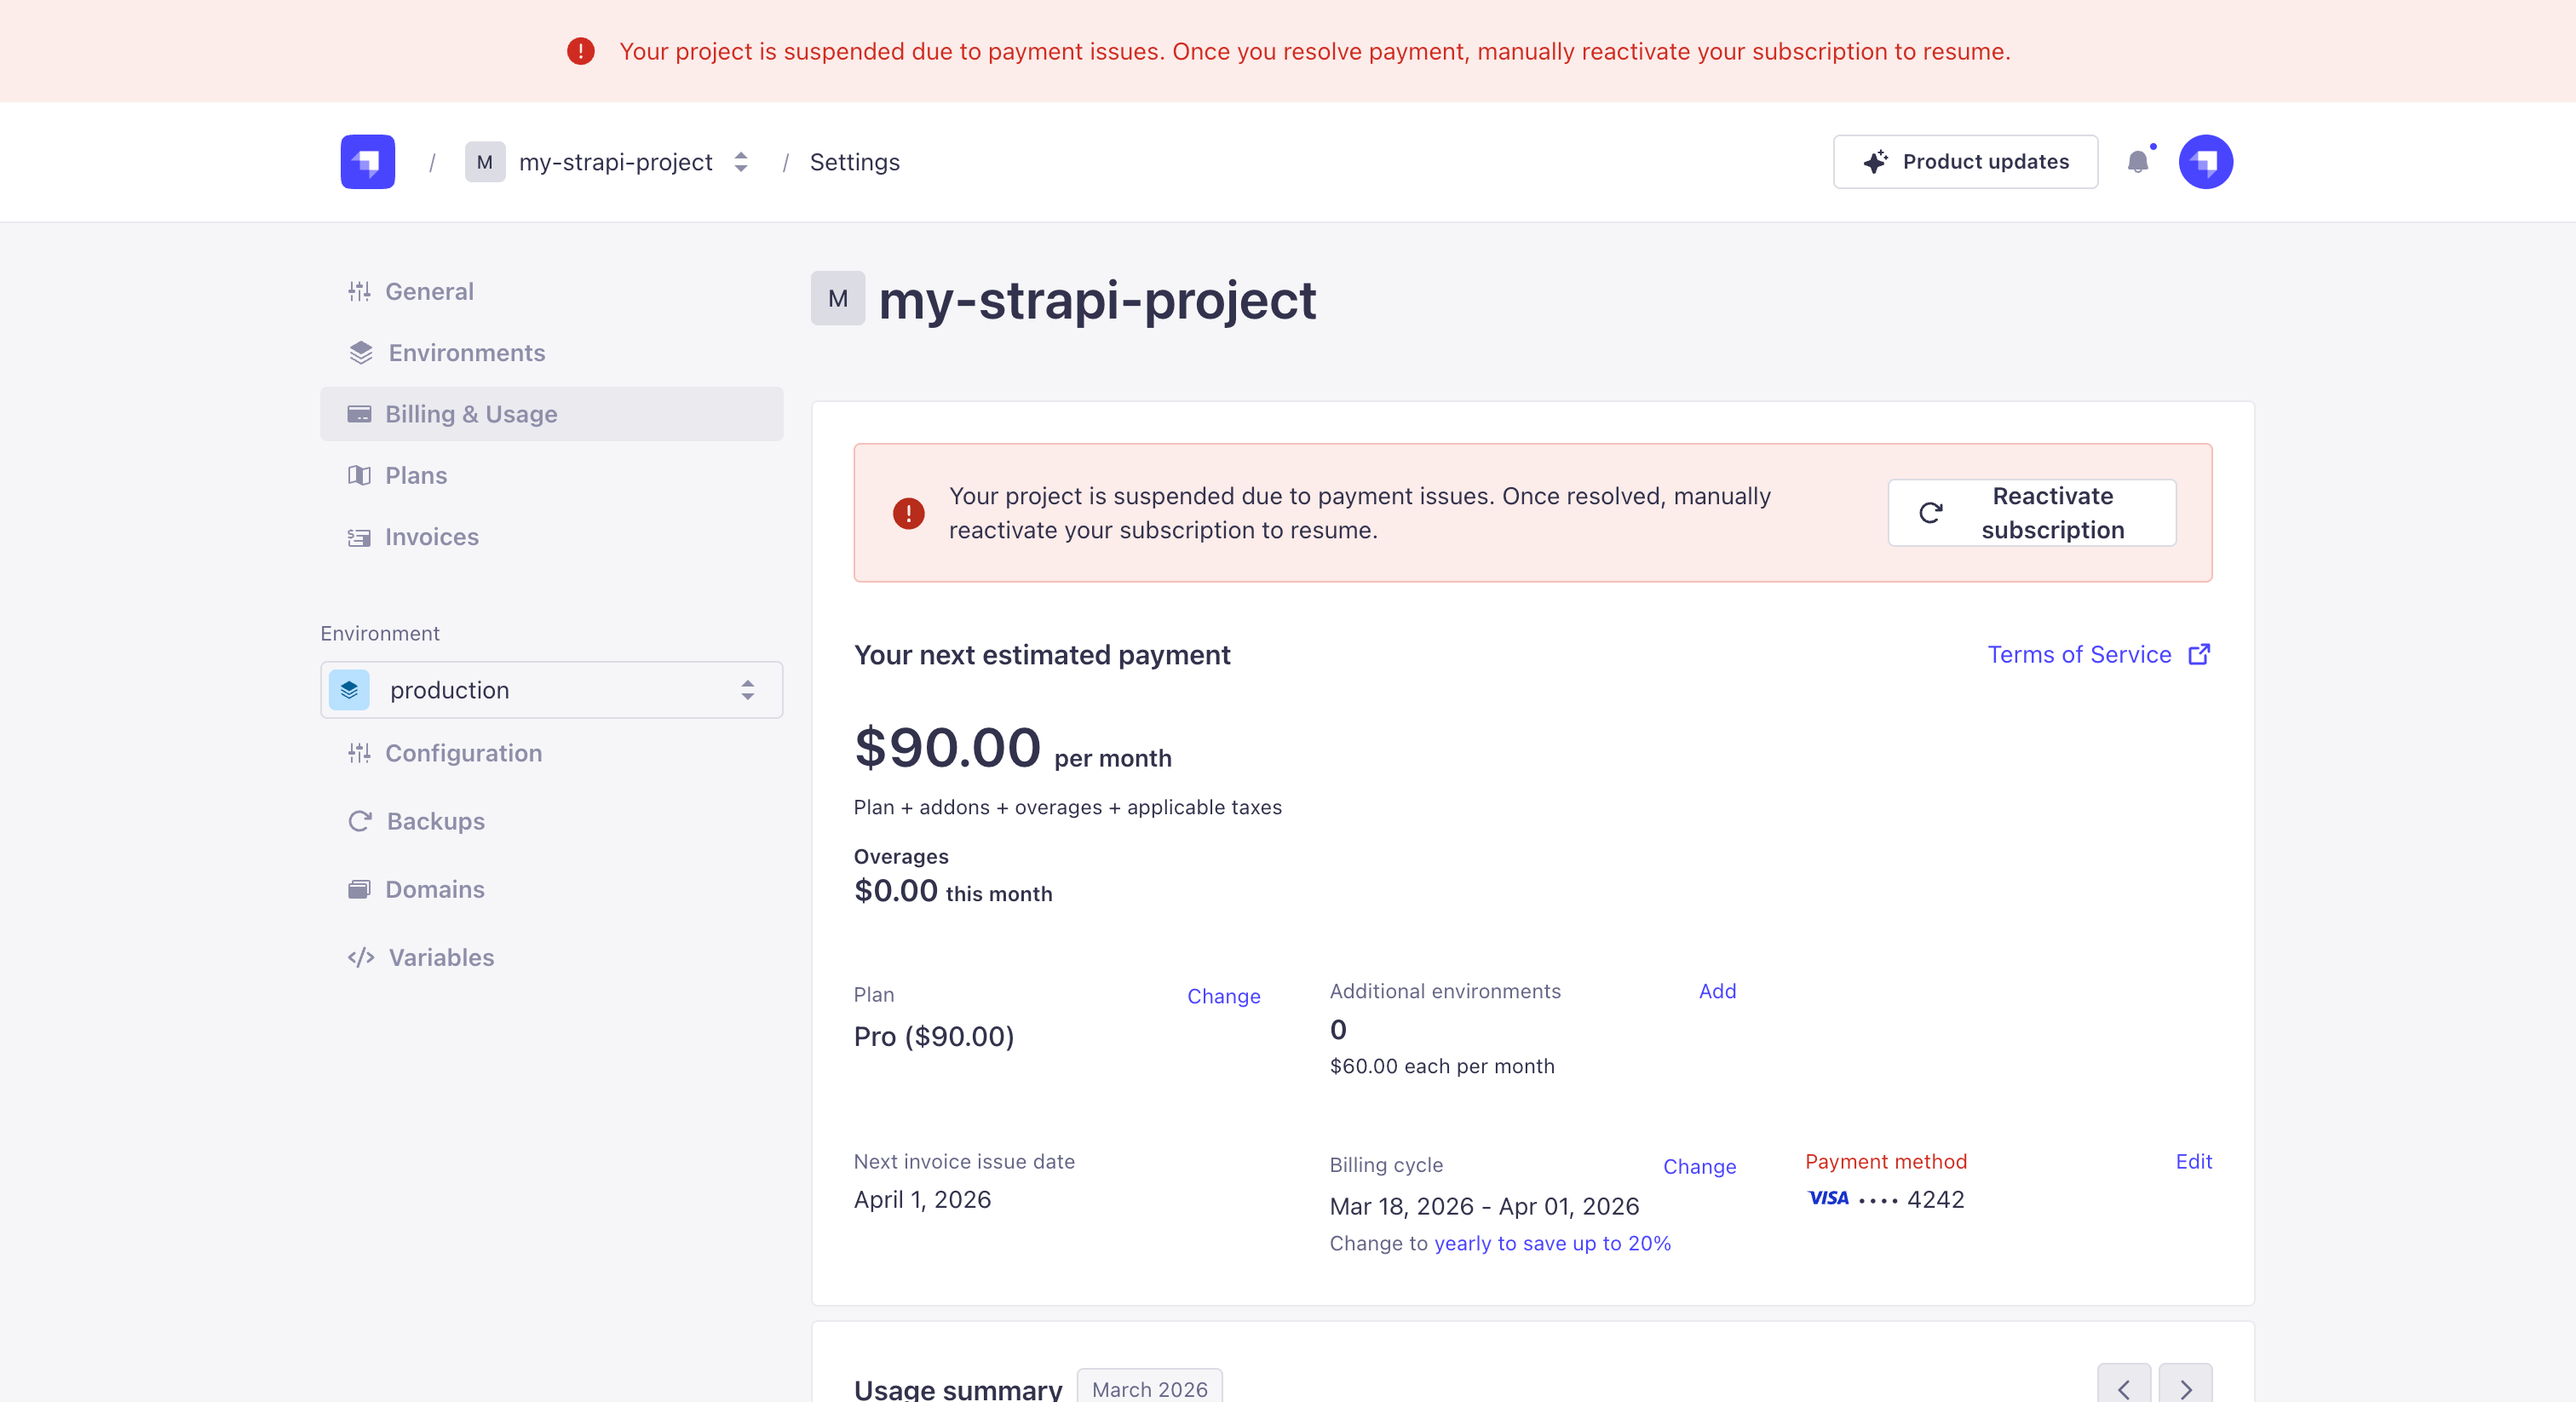
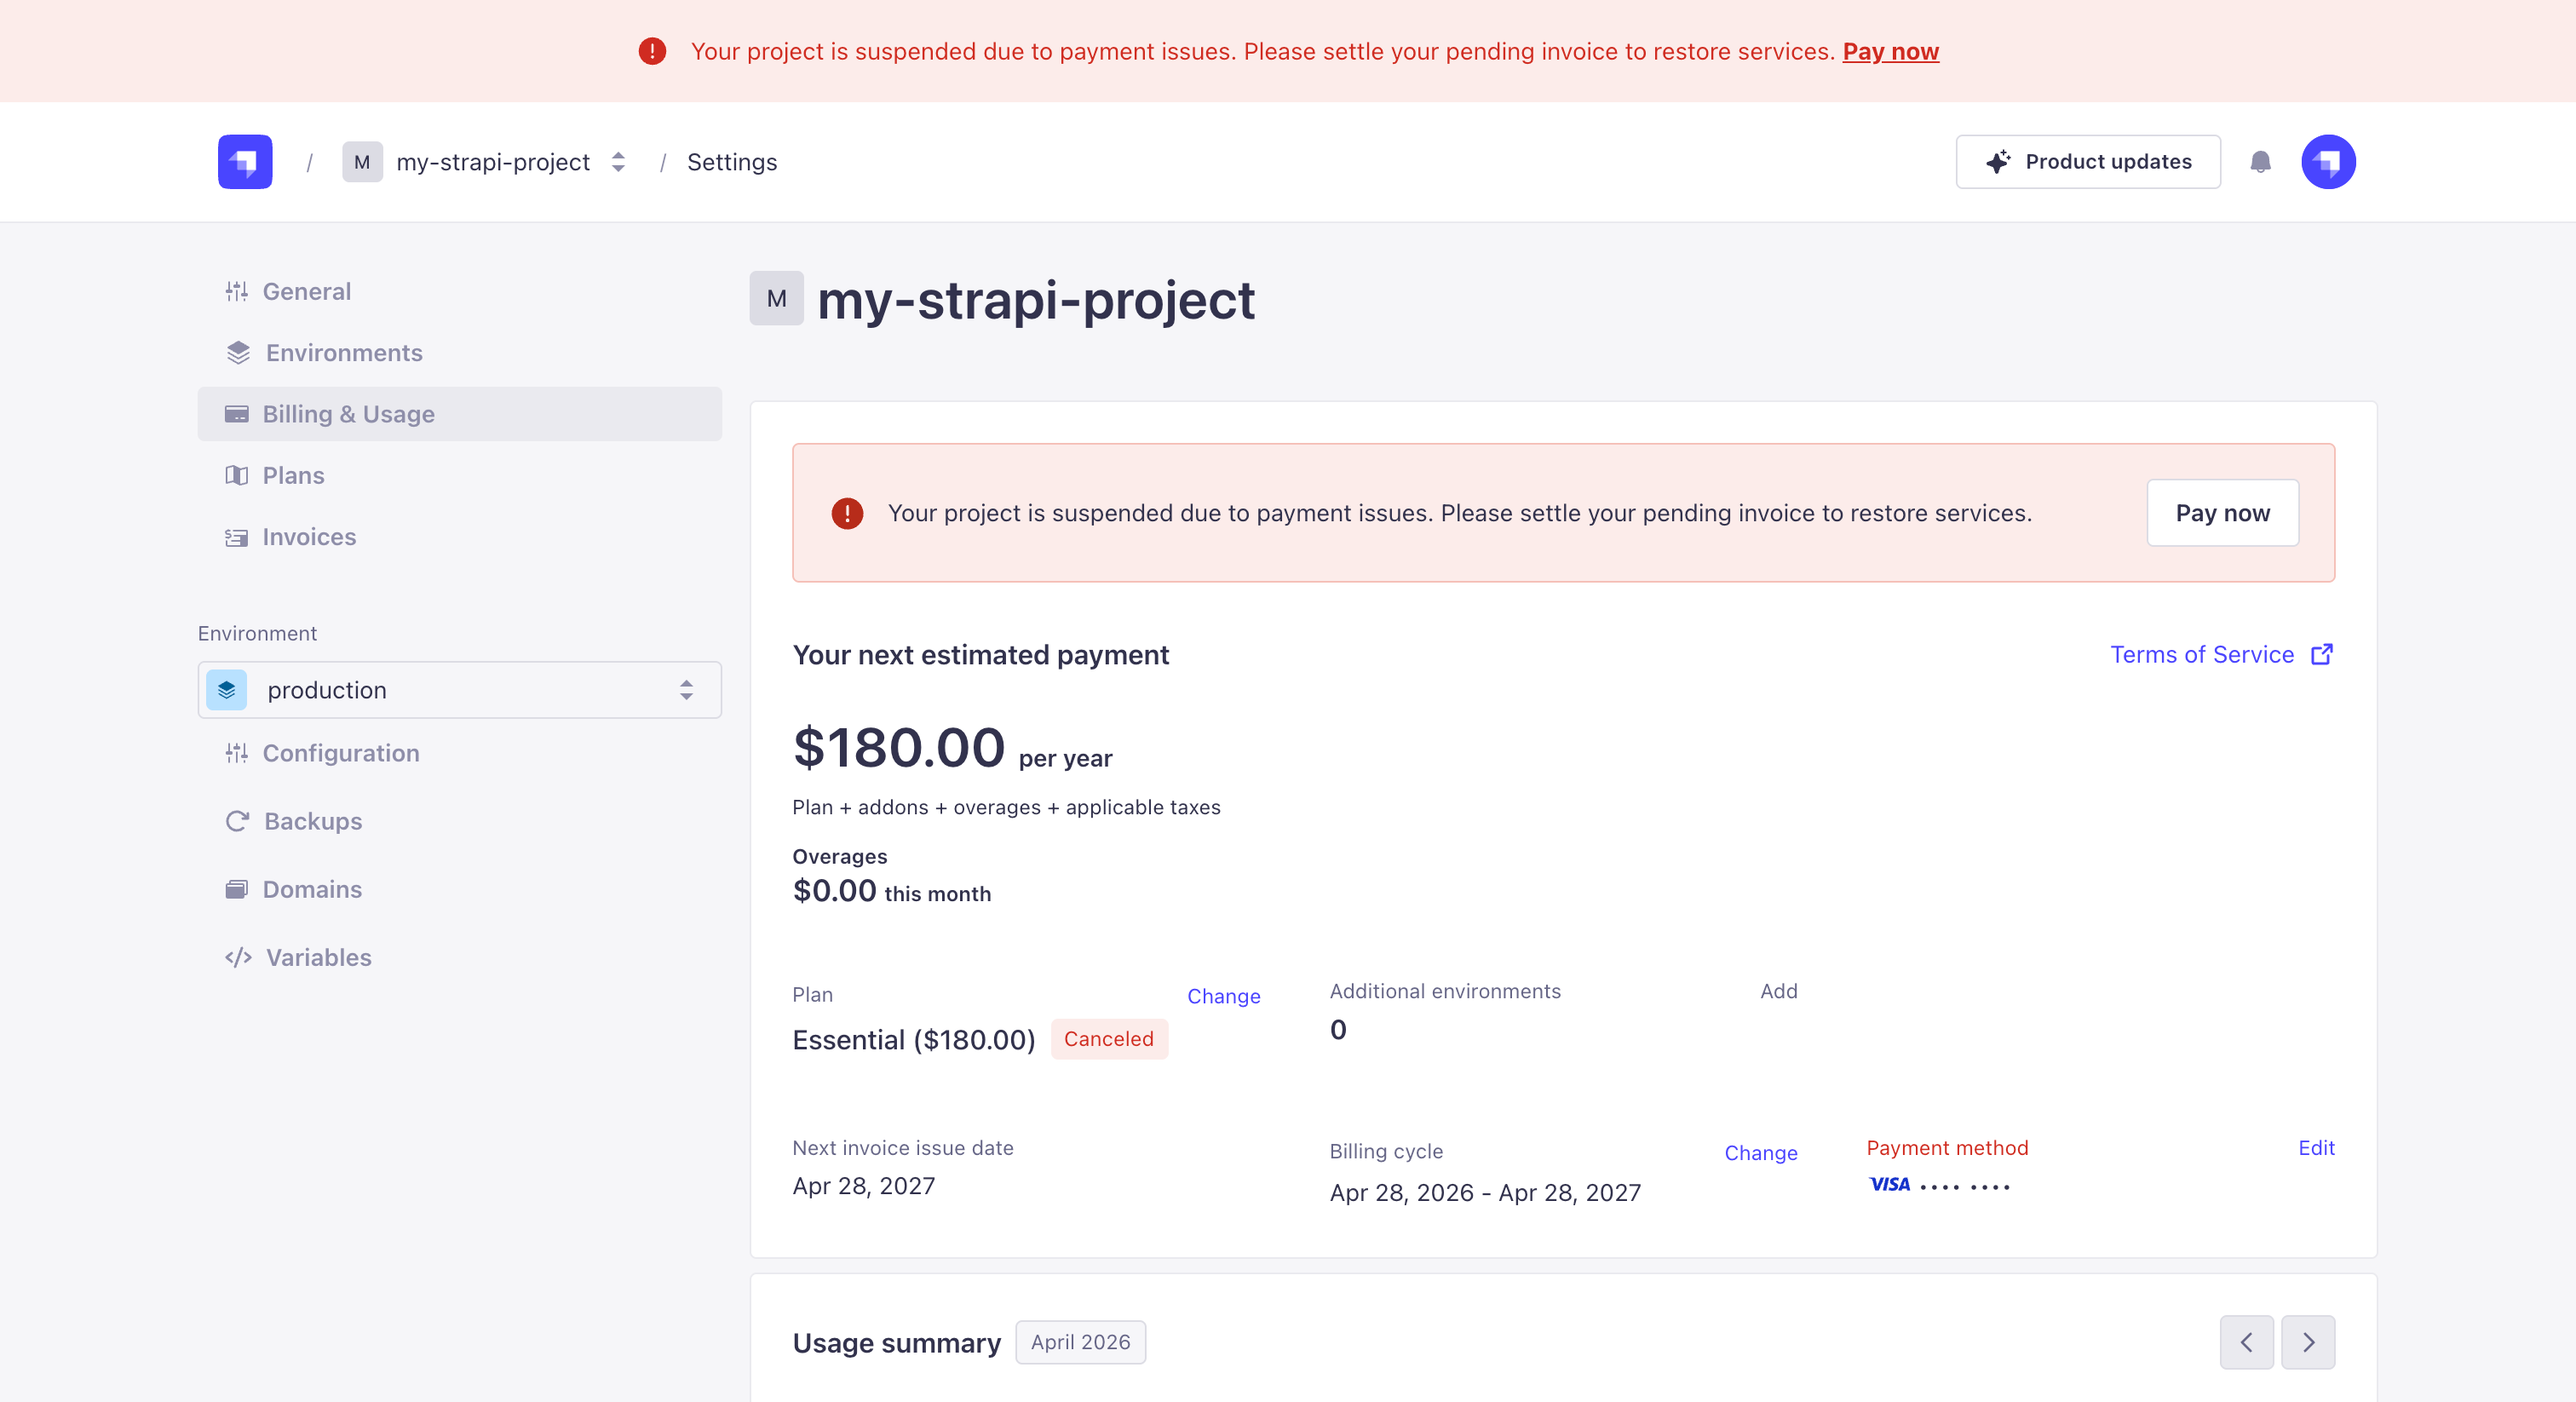
reactivate subscription

diff --git a/docusaurus/docs/cloud/getting-started/usage-billing.md b/docusaurus/docs/cloud/getting-started/usage-billing.md
@@ -111,7 +111,11 @@ To reactivate the project immediately, users can upgrade to a paid plan.
 
 If you have unpaid invoices, the subscription of your project will automatically be canceled and the project suspended. 
 
-To reactivate your project's subscription, head to *Settings > Billing & Usage* and click on the **Reactivate subscription** button.
+To reactivate your project subscription:
+
+1. Click the **Pay now** button in the project banner, or in *Settings > Billing & Usage*
+2. Pay your overdue invoice(s) on the external payment page
+3. Wait up to 1 minute for your project to reactivate
 
 <ThemedImage
   alt="Reactivate subscription"
